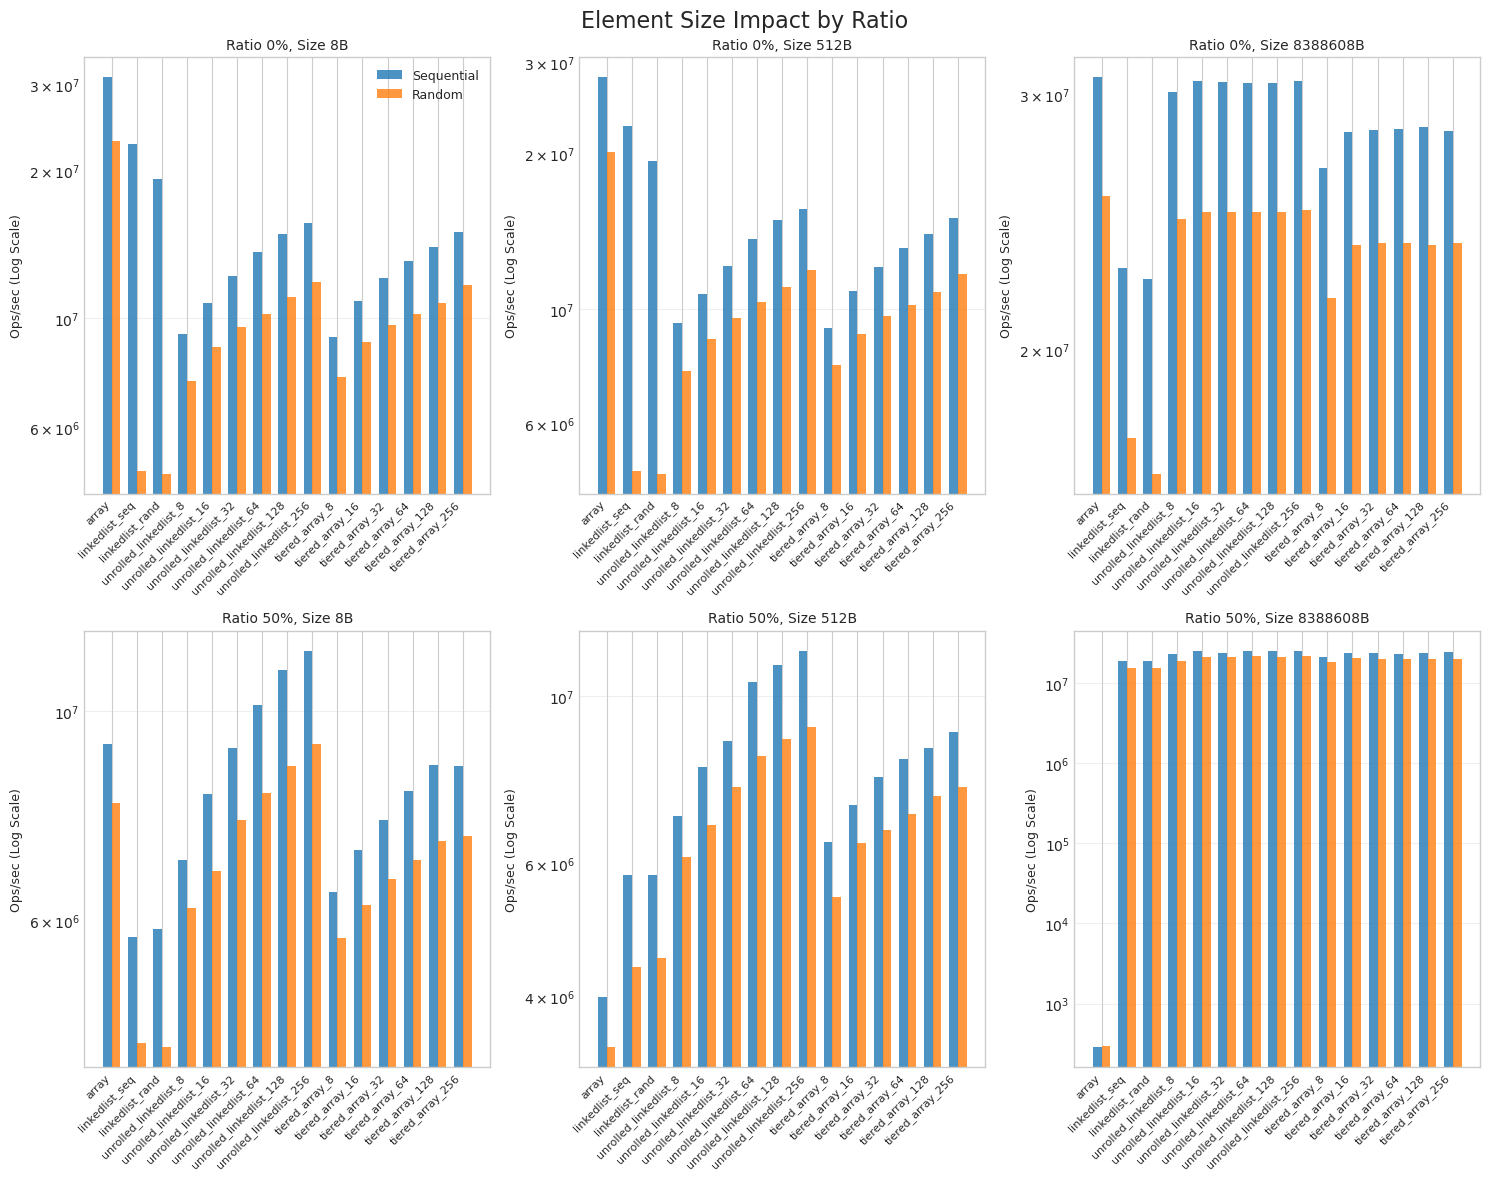
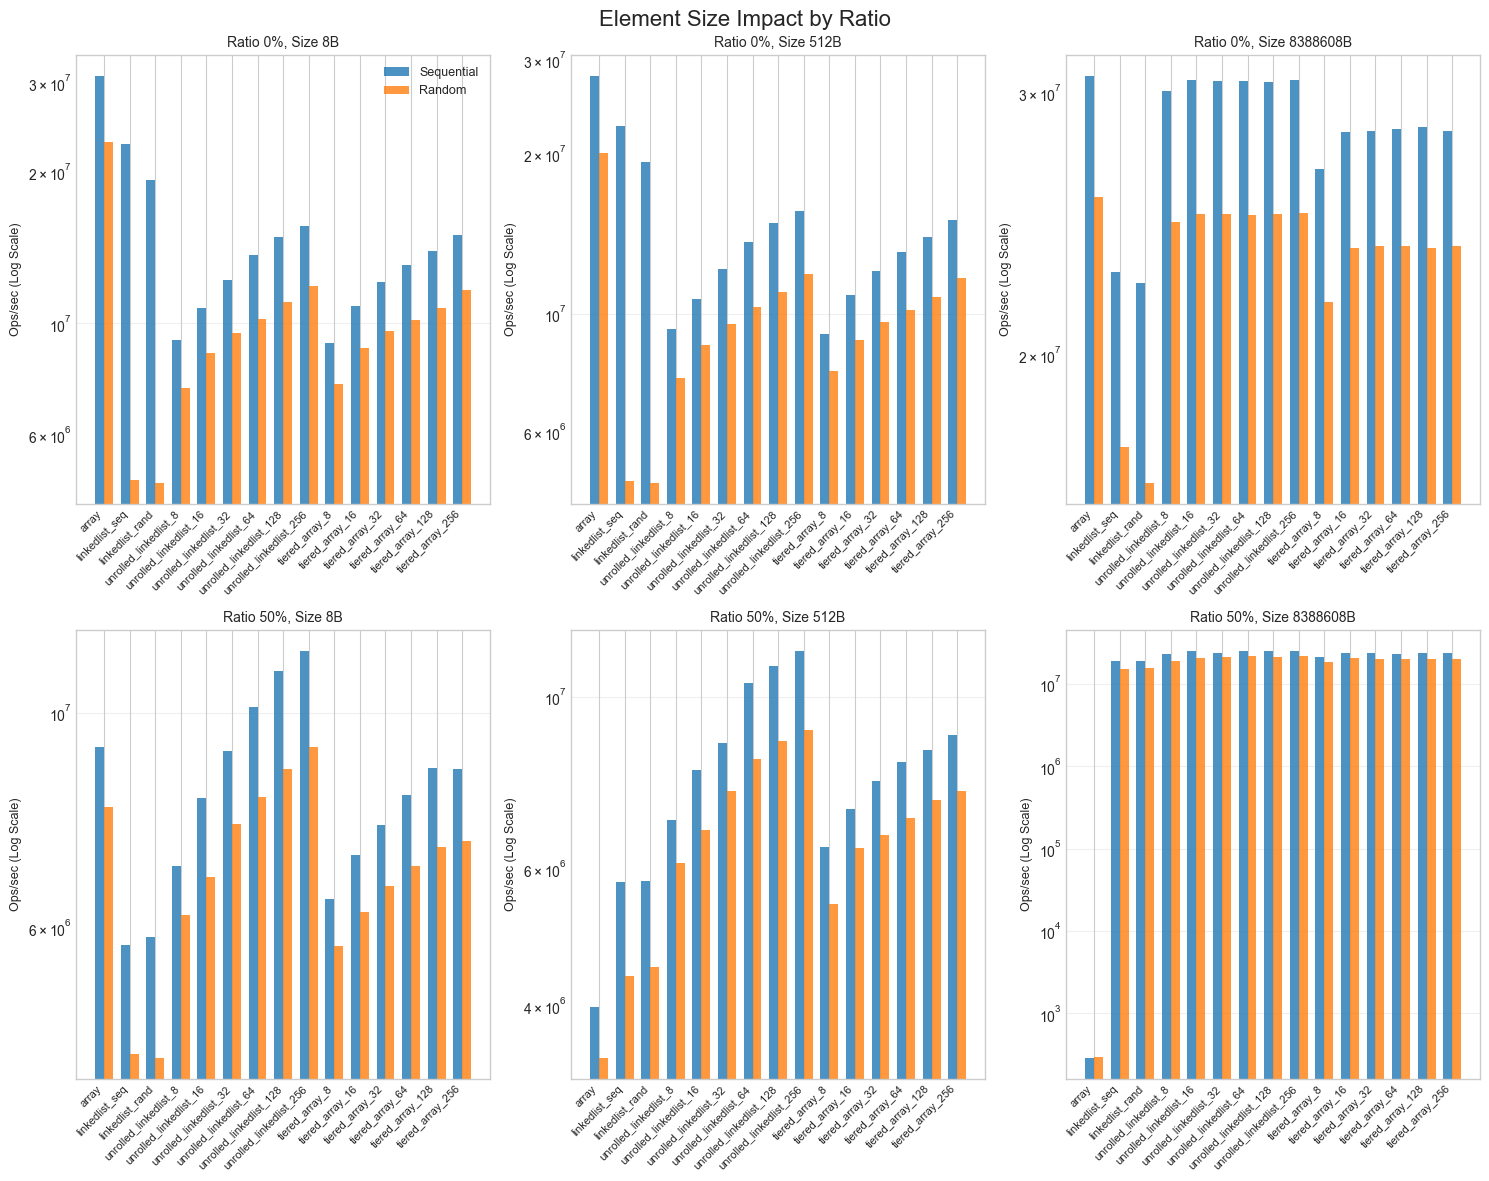
Remove outdated plot images and add new report for data structure performance analysis

diff --git a/10/scripts/simple_plot.py b/10/scripts/simple_plot.py
@@ -5,7 +5,7 @@ import numpy as np
 from pathlib import Path
 
 OUTPUT_TYPE = "png"  # Options: 'png', 'svg', 'pdf'
-CSV_NAME = "results.csv"
+CSV_NAME = "results_cluster.csv"
 
 
 PLOT_STYLE = 'seaborn-v0_8-whitegrid'
@@ -525,6 +525,173 @@ def plot_memory_efficiency_by_ratio(df):
     plt.savefig(OUTPUT_DIR / f"memory_efficiency_by_ratio_{CSV_NAME[:-4]}.{OUTPUT_TYPE}", bbox_inches='tight')
     plt.close()
 
+def plot_ratio_vs_element_size_grid(df):
+    ratios = sorted(df['ratio'].unique())
+    elem_sizes = sorted(df['elem_size'].unique())
+    
+    print(f"Creating {len(ratios)} separate ratio plots")
+    print(f"Element sizes available: {elem_sizes}")
+    
+    elem_size_data_sizes = {}
+    for elem_size in elem_sizes:
+        available_sizes = sorted(df[df['elem_size'] == elem_size]['size'].unique())
+        elem_size_data_sizes[elem_size] = available_sizes
+        print(f"Element {elem_size}B has data for sizes: {available_sizes}")
+    
+    all_possible_sizes = sorted(df['size'].unique())
+    size_color_map = {}
+    colors = plt.cm.Set1(np.linspace(0, 1, len(all_possible_sizes)))
+    for i, size in enumerate(all_possible_sizes):
+        size_color_map[size] = colors[i]
+    
+    for ratio in ratios:
+        ratio_df = df[df['ratio'] == ratio]
+        
+        if ratio_df.empty:
+            print(f"No data for ratio {ratio}")
+            continue
+        
+        available_elem_sizes = sorted(ratio_df['elem_size'].unique())
+        print(f"Ratio {ratio*100:.0f}% - Available element sizes: {available_elem_sizes}")
+        
+        fig, axes = plt.subplots(1, len(available_elem_sizes), 
+                                figsize=(7 * len(available_elem_sizes), 8))
+        
+        if len(available_elem_sizes) == 1:
+            axes = [axes]
+        
+        fig.suptitle(f'Performance Analysis - Insert/Delete Ratio: {ratio*100:.0f}%', fontsize=16)
+        
+        for elem_idx, elem_size in enumerate(available_elem_sizes):
+            ax = axes[elem_idx]
+            
+            elem_df = ratio_df[ratio_df['elem_size'] == elem_size]
+            
+            if elem_df.empty:
+                ax.text(0.5, 0.5, f'No Data\nfor {elem_size}B', 
+                       transform=ax.transAxes, ha='center', va='center', fontsize=12)
+                ax.set_title(f'Element Size: {elem_size}B', fontsize=12)
+                continue
+            
+            available_data_sizes = sorted(elem_df['size'].unique())
+            print(f"  Element {elem_size}B: Available data sizes: {available_data_sizes}")
+            
+            containers = sort_containers(elem_df['container'].unique())
+            
+            if len(containers) == 0:
+                ax.text(0.5, 0.5, f'No Containers\nfor {elem_size}B', 
+                       transform=ax.transAxes, ha='center', va='center', fontsize=12)
+                ax.set_title(f'Element Size: {elem_size}B', fontsize=12)
+                continue
+            
+            n_containers = len(containers)
+            n_data_sizes = len(available_data_sizes)
+            
+            container_width = 0.8
+            size_width = container_width / (n_data_sizes * 2) if n_data_sizes > 0 else 0.4  # 2 for seq/random
+            
+            x_base = np.arange(n_containers)
+            
+            bars_plotted = False
+            
+            for size_idx, data_size in enumerate(available_data_sizes):
+                size_df = elem_df[elem_df['size'] == data_size]
+                
+                if size_df.empty:
+                    continue
+                
+                agg_df = size_df.groupby(['container', 'random_access'])['ops_per_second'].mean().reset_index()
+                
+                if agg_df.empty:
+                    continue
+                
+                seq_values = []
+                rand_values = []
+                
+                for container in containers:
+                    seq_val = agg_df[(agg_df['container'] == container) & 
+                                   (agg_df['random_access'] == False)]['ops_per_second']
+                    rand_val = agg_df[(agg_df['container'] == container) & 
+                                    (agg_df['random_access'] == True)]['ops_per_second']
+                    
+                    seq_perf = seq_val.iloc[0] if not seq_val.empty else 0
+                    rand_perf = rand_val.iloc[0] if not rand_val.empty else 0
+                    
+                    seq_values.append(seq_perf)
+                    rand_values.append(rand_perf)
+                
+                if all(v == 0 for v in seq_values + rand_values):
+                    continue
+                
+                if n_data_sizes > 1:
+                    offset = (size_idx - (n_data_sizes - 1) / 2) * (size_width * 2)
+                else:
+                    offset = 0
+                x_seq = x_base + offset - size_width/2
+                x_rand = x_base + offset + size_width/2
+                
+                color = size_color_map[data_size]
+                
+                seq_label = f'{data_size:,} elem (Seq)' if elem_idx == 0 else ""
+                rand_label = f'{data_size:,} elem (Rand)' if elem_idx == 0 else ""
+                
+                min_height = 1e2
+                seq_values_plot = [max(v, min_height) if v > 0 else min_height for v in seq_values]
+                rand_values_plot = [max(v, min_height) if v > 0 else min_height for v in rand_values]
+                
+                ax.bar(x_seq, seq_values_plot, size_width, 
+                      color=color, alpha=0.9, label=seq_label, 
+                      edgecolor='black', linewidth=0.5)
+                ax.bar(x_rand, rand_values_plot, size_width, 
+                      color=color, alpha=0.5, label=rand_label,
+                      edgecolor='black', linewidth=0.5, hatch='///')
+                
+                bars_plotted = True
+                print(f"    Plotted size {data_size}: seq_max={max(seq_values):.1e}, rand_max={max(rand_values):.1e}")
+            
+            if not bars_plotted:
+                ax.text(0.5, 0.5, f'No Valid Data\nfor {elem_size}B', 
+                       transform=ax.transAxes, ha='center', va='center', fontsize=12)
+            
+            size_info = f"Data sizes: {', '.join([f'{s:,}' for s in available_data_sizes])}"
+            ax.set_title(f'Element Size: {elem_size}B\n{size_info}', fontsize=11)
+            ax.set_yscale('log')
+            ax.set_xticks(x_base)
+            ax.set_xticklabels(containers, rotation=45, ha='right', fontsize=8)
+            ax.grid(True, alpha=0.3, axis='y')
+            ax.set_ylabel('Ops/sec (Log)', fontsize=10)
+            ax.set_xlabel('Data Structure', fontsize=10)
+            
+            if bars_plotted:
+                ax.set_ylim(bottom=1e2, top=None)
+        
+        if len(available_elem_sizes) > 0:
+            all_sizes_in_plot = set()
+            for elem_size in available_elem_sizes:
+                elem_df = ratio_df[ratio_df['elem_size'] == elem_size]
+                if not elem_df.empty:
+                    all_sizes_in_plot.update(elem_df['size'].unique())
+            
+            legend_elements = []
+            for data_size in sorted(all_sizes_in_plot):
+                color = size_color_map[data_size]
+                legend_elements.append(plt.Rectangle((0,0),1,1, facecolor=color, alpha=0.9, 
+                                                   edgecolor='black', label=f'{data_size:,} elem (Seq)'))
+                legend_elements.append(plt.Rectangle((0,0),1,1, facecolor=color, alpha=0.5, 
+                                                   edgecolor='black', hatch='///', label=f'{data_size:,} elem (Rand)'))
+            
+            if legend_elements:
+                axes[0].legend(handles=legend_elements, bbox_to_anchor=(1.05, 1), 
+                              loc='upper left', fontsize=9)
+        
+        plt.tight_layout()
+        
+        output_path = OUTPUT_DIR / f"ratio_{int(ratio*100)}_percent_element_size_analysis_{CSV_NAME[:-4]}.{OUTPUT_TYPE}"
+        plt.savefig(output_path, bbox_inches='tight')
+        plt.close()
+        
+        print(f"✓ Created ratio {ratio*100:.0f}% analysis: {output_path}")
+
 def main():
     df = load_and_prepare_data(CSV_DIR / CSV_NAME)
     
@@ -548,21 +715,24 @@ def main():
     plot_relative_performance_to_array_by_ratio(df)
     print("✓ Created ratio-aware relative performance analysis")
     
-    plot_performance_scaling_by_size_and_ratio(df)
-    print("✓ Created ratio-aware performance scaling analysis")
+    #plot_performance_scaling_by_size_and_ratio(df)
+    #print("✓ Created ratio-aware performance scaling analysis")
     
     plot_element_size_impact_by_ratio(df)
     print("✓ Created ratio-aware element size impact analysis")
     
-    plot_performance_heatmap_by_ratio(df)
-    print("✓ Created ratio-aware performance heatmap")
+    #plot_performance_heatmap_by_ratio(df)
+    #print("✓ Created ratio-aware performance heatmap")
     
-    plot_ratio_impact_summary(df)
-    print("✓ Created ratio impact summary")
+    #plot_ratio_impact_summary(df)
+    #print("✓ Created ratio impact summary")
     
     plot_memory_efficiency_by_ratio(df)
     print("✓ Created ratio-aware memory efficiency analysis")
-    
+
+    plot_ratio_vs_element_size_grid(df)
+    print("✓ Created ratio vs element size grid")
+
     print(f"\nAll plots saved to {OUTPUT_DIR}/")
 
 if __name__ == "__main__":

diff --git a/10/report.md b/10/report.md
@@ -1,0 +1,92 @@
+# Data Structure Performance Analysis
+
+## Analysis Components
+
+### Access Pattern Performance
+![Access Pattern Performance by Insert/Delete Ratio](scripts/plots_results_cluster/access_pattern_by_ratio_results_cluster.png)
+
+**Description**: Compares performance across four insert/delete ratios (0%, 1%, 10%, 50%) showing operations per second on logarithmic scale.
+
+**Key Insights**:
+- Sequential access consistently outperforms random access
+- Performance degrades with higher insert/delete ratios
+- Different data structures(chunk sizes) show varying sensitivity to modification patterns
+
+### Data Size Impact
+![Access Pattern Impact by Data Size](scripts/plots_results_cluster/access_pattern_by_size_results_cluster.png)
+
+**Description**: Examines how performance scales with data size (10 to 1,000,000 elements).
+
+**Key Insights**:
+- Sequential access maintains advantage across all sizes
+- Some structures show better scaling characteristics
+
+### Element Size Impact
+![Element Size Impact by Ratio](scripts/plots_results_cluster/element_size_impact_by_ratio_results_cluster.png)
+
+**Description**: Analyzes performance with different element sizes (8B, 512B, 838860B) at 0% and 50% modification ratios.
+
+**Key Insights**:
+- Larger elements favor sequential access patterns
+- Memory bandwidth becomes limiting factor(see 838860B element size)
+
+### Memory Efficiency
+![Memory Efficiency by Insert/Delete Ratio](scripts/plots_results_cluster/memory_efficiency_by_ratio_results_cluster.png)
+
+**Description**: Shows operations per MB for different modification ratios.
+
+**Key Insights**:
+- Memory efficiency varies significantly between structures
+- Trade-offs between performance and memory usage(see plot above)
+
+### Sequential vs Random Comparison
+![Performance: Sequential vs Random Access Patterns](scripts/plots_results_cluster/random_vs_sequential_comparison_results_cluster.png)
+
+**Description**: Direct bar chart comparison of access patterns.
+
+### Relative Performance
+![Relative Performance by Insert/Delete Ratio](scripts/plots_results_cluster/relative_performance_by_ratio_results_cluster.png)
+
+**Description**: Performance normalized to array baseline across modification ratios.
+
+**Key Insights**:
+- Scenarios where alternatives outperform arrays
+- Performance multipliers for different use cases
+
+### THE LARGE PLOT
+
+#### Element Size vs Number of Elements Ratio 0%
+![element_sizexnumber_of_elements_ratio0](scripts/plots_results_cluster/ratio_0_percent_element_size_analysis_results_cluster.png)
+
+#### Element Size vs Number of Elements Ratio 1%
+![element_sizexnumber_of_elements_ratio01](scripts/plots_results_cluster/ratio_1_percent_element_size_analysis_results_cluster.png)
+
+#### Element Size vs Number of Elements Ratio 10%
+![element_sizexnumber_of_elements_ratio10](scripts/plots_results_cluster/ratio_10_percent_element_size_analysis_results_cluster.png)
+
+#### Element Size vs Number of Elements Ratio 50%
+![element_sizexnumber_of_elements_ratio50](scripts/plots_results_cluster/ratio_50_percent_element_size_analysis_results_cluster.png)
+
+## Key Findings
+
+### 1. Sequential Access Dominance
+**Observation**: Sequential access patterns consistently outperform random access across all data structures and experimental conditions.
+
+**Magnitude**: 2-10x performance advantage in most scenarios, reaching 100x+ for large datasets.
+
+### 2. Modification Ratio Sensitivity
+**Linear Degradation**: Most structures show predictable performance decline as insert/delete ratio increases from 0% to 50%.(The normal array is a bit outlier here, showing a more pronounced degradation.)
+
+**Structure Resilience**: Unrolled linked lists and tiered arrays demonstrate better stability under dynamic conditions compared to basic arrays.
+
+**Critical Threshold**: Performance degradation accelerates beyond 10% modification ratio for most structures.
+
+### 3. Size-Dependent Performance Characteristics
+**Small Data (≤1,000 elements)**: Structure overhead dominates, arrays maintain advantage.
+
+**Medium Data (1,000-100,000 elements)**: Cache effects become significant, unrolled structures gain advantage.
+
+**Large Data (≥100,000 elements)**: Memory hierarchy effects dominate, sequential access becomes critical.
+
+
+---
